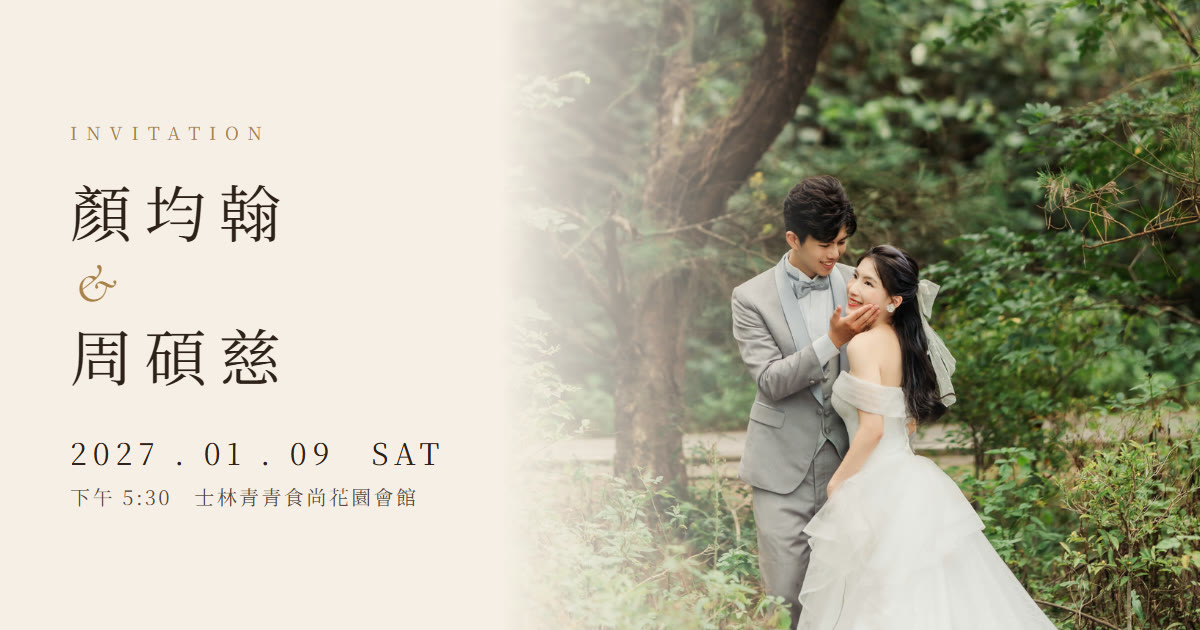
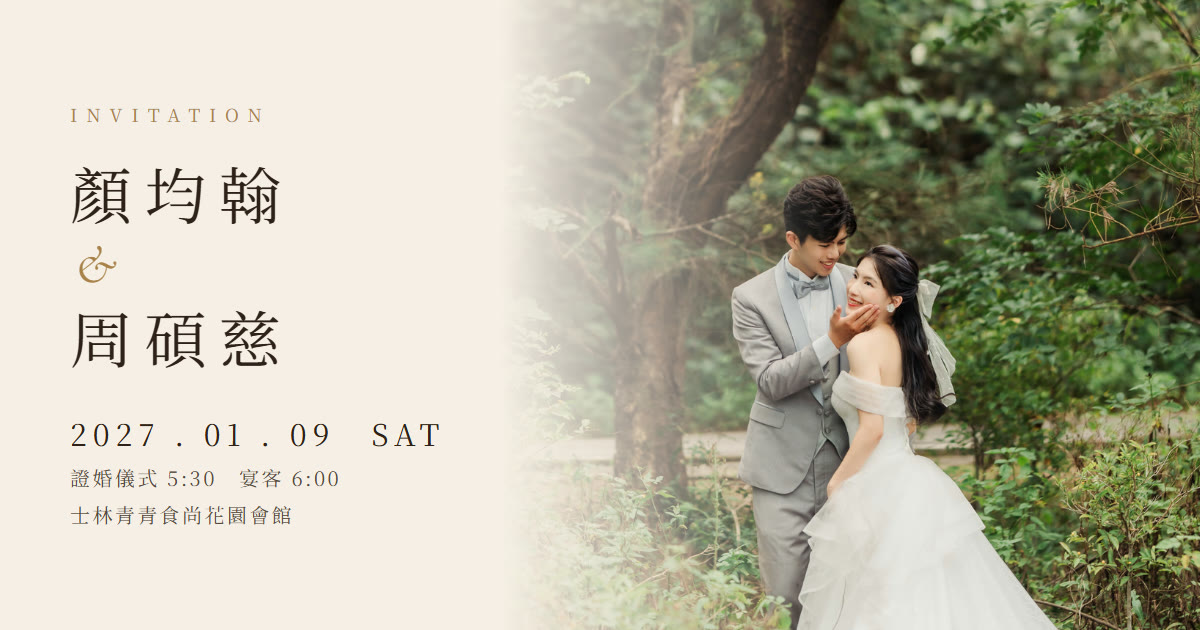
Ceremony 17:30 and banquet 18:00; shuttle arrival times and recommendations

Changed region(s): [[0.0617, 0.2714, 0.2467, 0.6333], [0.0617, 0.6635, 0.37, 0.8444], [0.0617, 0.181, 0.2158, 0.2413]]

diff --git a/index.html b/index.html
@@ -4,12 +4,12 @@
 <meta charset="utf-8">
 <meta name="viewport" content="width=device-width, initial-scale=1, viewport-fit=cover">
 <title>顏均翰 ＆ 周碩慈 婚禮邀請</title>
-<meta name="description" content="2027.01.09 下午五點半，士林青青食尚花園會館．星空之森。誠摯邀請您一同見證。">
+<meta name="description" content="2027.01.09 下午五點半證婚、六點宴客，士林青青食尚花園會館．星空之森。誠摯邀請您一同見證。">
 <meta property="og:type" content="website">
 <meta property="og:url" content="https://jyh-cst-wedding-invite.vercel.app/">
 <meta property="og:site_name" content="顏均翰 ＆ 周碩慈">
 <meta property="og:title" content="顏均翰 ＆ 周碩慈 婚禮邀請">
-<meta property="og:description" content="2027.01.09 下午五點半，士林青青食尚花園會館．星空之森。誠摯邀請您一同見證。">
+<meta property="og:description" content="2027.01.09 下午五點半證婚、六點宴客，士林青青食尚花園會館．星空之森。誠摯邀請您一同見證。">
 <meta property="og:image" content="https://jyh-cst-wedding-invite.vercel.app/og.jpg">
 <meta property="og:image:width" content="1200">
 <meta property="og:image:height" content="630">
@@ -103,9 +103,11 @@ p{font-size:15px;letter-spacing:.06em}
 .sh-lead{font-size:18px;line-height:1.8;margin:12px 0 22px}
 .sh-label{font-size:13px;letter-spacing:.4em;color:var(--gold);margin:6px 0 12px}
 .sh-times{display:grid;grid-template-columns:1fr 1fr;gap:10px}
-.sh-times div{border:1px solid var(--ink);padding:16px 0;font-size:30px;letter-spacing:.08em;font-weight:400;font-variant-numeric:lining-nums tabular-nums;background:var(--bg)}
+.sh-times div{border:1px solid var(--ink);padding:16px 0;font-size:30px;letter-spacing:.08em;font-weight:400;line-height:1.25;font-variant-numeric:lining-nums tabular-nums;background:var(--bg)}
 .sh-times .rec{border:2px solid var(--gold);background:#fff8ee;position:relative}
-.sh-times .rec i{position:absolute;top:-11px;left:50%;transform:translateX(-50%);background:var(--gold);color:#fff;font-style:normal;font-size:12px;letter-spacing:.3em;padding:1px 12px 1px 15px;line-height:1.7}
+.sh-times em{display:block;font-style:normal;font-size:13px;letter-spacing:.08em;opacity:.7;margin-top:2px;font-family:var(--serif)}
+.sh-small{font-size:13px;opacity:.7}
+.sh-times .rec i{position:absolute;top:-11px;left:50%;transform:translateX(-50%);background:var(--gold);color:#fff;font-style:normal;font-size:12px;letter-spacing:.3em;padding:1px 10px 1px 13px;line-height:1.7;white-space:nowrap}
 .sh-note{font-size:16px;line-height:1.8;margin:14px 0 26px;text-align:left}
 .sh-note b{font-weight:500;color:#7A5A2B}
 .sh-steps{list-style:none;padding:0;text-align:left;margin:0}
@@ -148,7 +150,7 @@ footer p{margin-top:10px;font-size:13px;letter-spacing:.3em;color:var(--gold)}
   <h2>The Day</h2>
   <div class="card">
     <div class="row"><div class="k">日期</div><div class="v">2027 年 1 月 9 日（六）</div></div>
-    <div class="row"><div class="k">時間</div><div class="v">下午 5:30</div></div>
+    <div class="row"><div class="k">時間</div><div class="v">證婚儀式　下午 5:30</div><div class="v" style="margin-top:2px">宴　　客　下午 6:00</div></div>
     <div class="row"><div class="k">地點</div><div class="v">青青食尚花園會館</div><div class="s">星空之森</div></div>
     <div class="row"><div class="k">地址</div><div class="v" style="font-size:15px;letter-spacing:.05em;text-wrap:balance">台北市士林區至善路二段 266 巷 32 號</div></div>
   </div>
@@ -158,7 +160,7 @@ footer p{margin-top:10px;font-size:13px;letter-spacing:.3em;color:var(--gold)}
     <a class="btn" href="#shuttle">接駁專車</a>
   </div>
   <div class="rule"></div>
-  <div class="eyebrow">COUNTDOWN</div>
+  <div class="eyebrow">COUNTDOWN　距離證婚儀式</div>
   <div class="count" id="count">
     <div><b id="cd">–</b><span>DAYS</span></div>
     <div><b id="ch">–</b><span>HOURS</span></div>
@@ -174,9 +176,15 @@ footer p{margin-top:10px;font-size:13px;letter-spacing:.3em;color:var(--gold)}
 
     <div class="sh-label">發車時間（晚宴）</div>
     <div class="sh-times">
-      <div class="rec"><i>建議</i>16:45</div><div class="rec"><i>建議</i>17:15</div><div>17:45</div><div>18:15</div>
+      <div class="rec"><i>證婚建議</i>16:45<em>約 16:55 抵達</em></div>
+      <div class="rec"><i>宴客建議</i>17:15<em>約 17:25 抵達</em></div>
+      <div>17:45<em>約 17:55 抵達</em></div>
+      <div>18:15<em>約 18:25 抵達</em></div>
     </div>
-    <p class="sh-note">典禮 17:30 開始，<b>建議搭 16:45 或 17:15 的班次</b>，並提早 10 分鐘到乘車處等候。</p>
+    <p class="sh-note">車程約 10 分鐘。<br>證婚儀式 <b>17:30</b>，宴客 <b>18:00</b>。<br>
+      想參加證婚儀式，請搭 <b>16:45</b>。<br>只參加宴客，請搭 <b>17:15</b>。<br>
+      請提早 10 分鐘到乘車處等候。<br>
+      <span class="sh-small">17:45、18:15 班次抵達時已接近或超過開席時間。</span></p>
 
     <div class="sh-label">怎麼搭</div>
     <ol class="sh-steps">
@@ -270,9 +278,9 @@ document.getElementById('ics').addEventListener('click',function(){
     'UID:wedding-20270109@invite',
     'DTSTAMP:20261101T000000Z',
     'DTSTART:20270109T093000Z','DTEND:20270109T133000Z',
-    'SUMMARY:顏均翰 ＆ 周碩慈 婚禮',
+    'SUMMARY:顏均翰 ＆ 周碩慈 婚禮（17:30 證婚儀式／18:00 宴客）',
     'LOCATION:青青食尚花園會館 星空之森（台北市士林區至善路二段266巷32號）',
-    'DESCRIPTION:進入會館前的橋僅容一台車寬，請務必遵守現場人員指揮。',
+    'DESCRIPTION:17:30 證婚儀式，18:00 宴客。進入會館前的橋僅容一台車寬，請務必遵守現場人員指揮。',
     'BEGIN:VALARM','TRIGGER:-P1D','ACTION:DISPLAY','DESCRIPTION:明天是均翰與碩慈的婚禮','END:VALARM',
     'END:VEVENT','END:VCALENDAR'].join('\r\n');
   var a=document.createElement('a');
